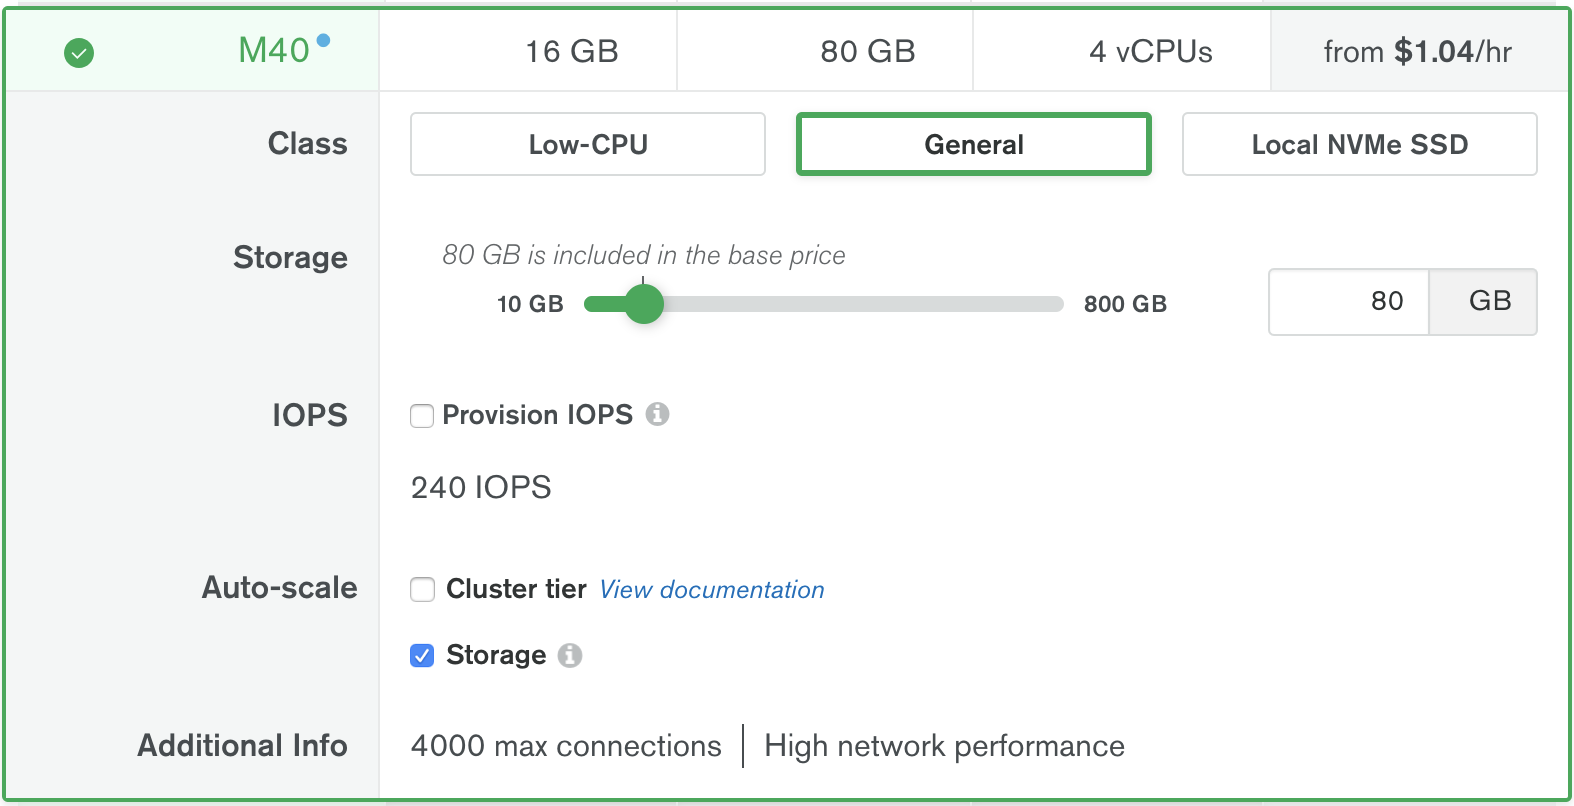
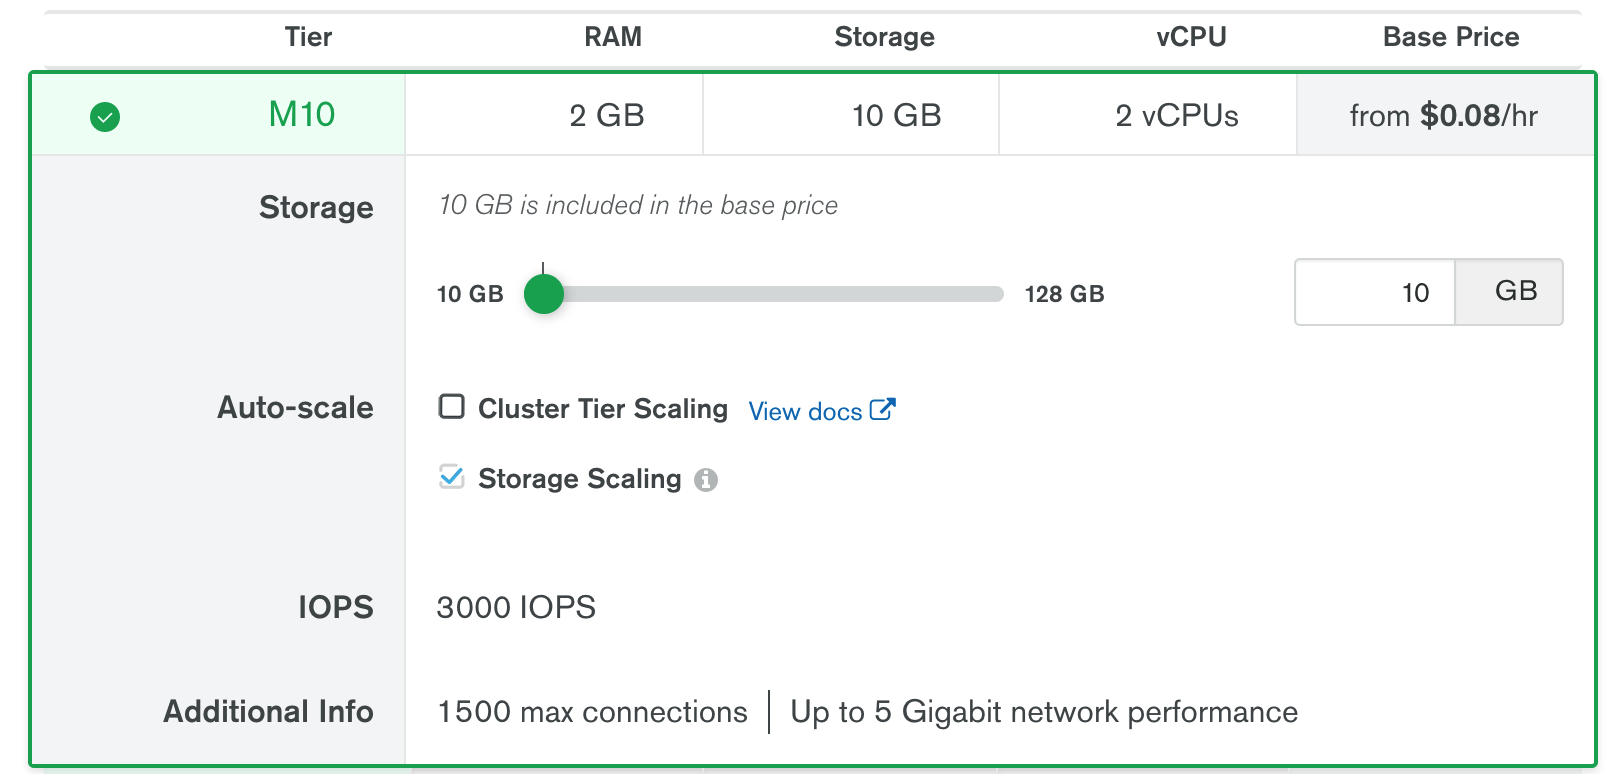
(DOCSP-15447) Use gp3 volumes for Atlas (#2277)

diff --git a/source/includes/cluster-settings/provision-iops-note.rst b/source/includes/cluster-settings/provision-iops-note.rst
@@ -1,8 +1,15 @@
 |service| clusters on |aws| of size ``M30`` and greater allow you to
 customize the maximum |iops| rate of your cluster. Low-CPU or
 general class clusters of ``M30`` or greater tiers have a minimum of
-ratio of |iops| to storage of 3:1. You can't change the |iops| of a
-local |nvme| |ssd| class cluster. To set a greater |iops| rate for your
+|iops| set 3000. This value remains at 3000 until you change the 
+disk size and make it to exceed 1TB.
+Once you change the type to M30 and start changing the default storage
+to go above 1TB, the |iops|, which is set to 3000 by default, starts to
+increase accordingly. In this case, |service| uses the
+|iops| to storage ratio of 3:1 to calculate the |iops| rate.
+
+You can't change the |iops| of a local |nvme| |ssd| class cluster.
+To set a greater |iops| rate for your
 cluster, select :guilabel:`Provision IOPS` and either:
 
 - Specify the exact |iops| rate in the text box, *or*
@@ -23,6 +30,6 @@ cluster, select :guilabel:`Provision IOPS` and either:
    Changes to |iops| provisioning affect characteristics, performance
    and :ref:`cost <instance-storage-speed>`. When you select
    :guilabel:`Provision IOPS`, the storage changes from
-   **General Purpose SSD** (:aws:`gp2 </AWSEC2/latest/UserGuide/EBSVolumeTypes.html#EBSVolumeTypes_gp2>`)
+   **General Purpose SSD** (:aws:`gp3 </AWSEC2/latest/UserGuide/ebs-volume-types.html#gp3-ebs-volume-type>`)
    volumes to **Provisioned IOPS SSD** (:aws:`io1 </AWSEC2/latest/UserGuide/EBSVolumeTypes.html#EBSVolumeTypes_piops>`)
    volumes.
